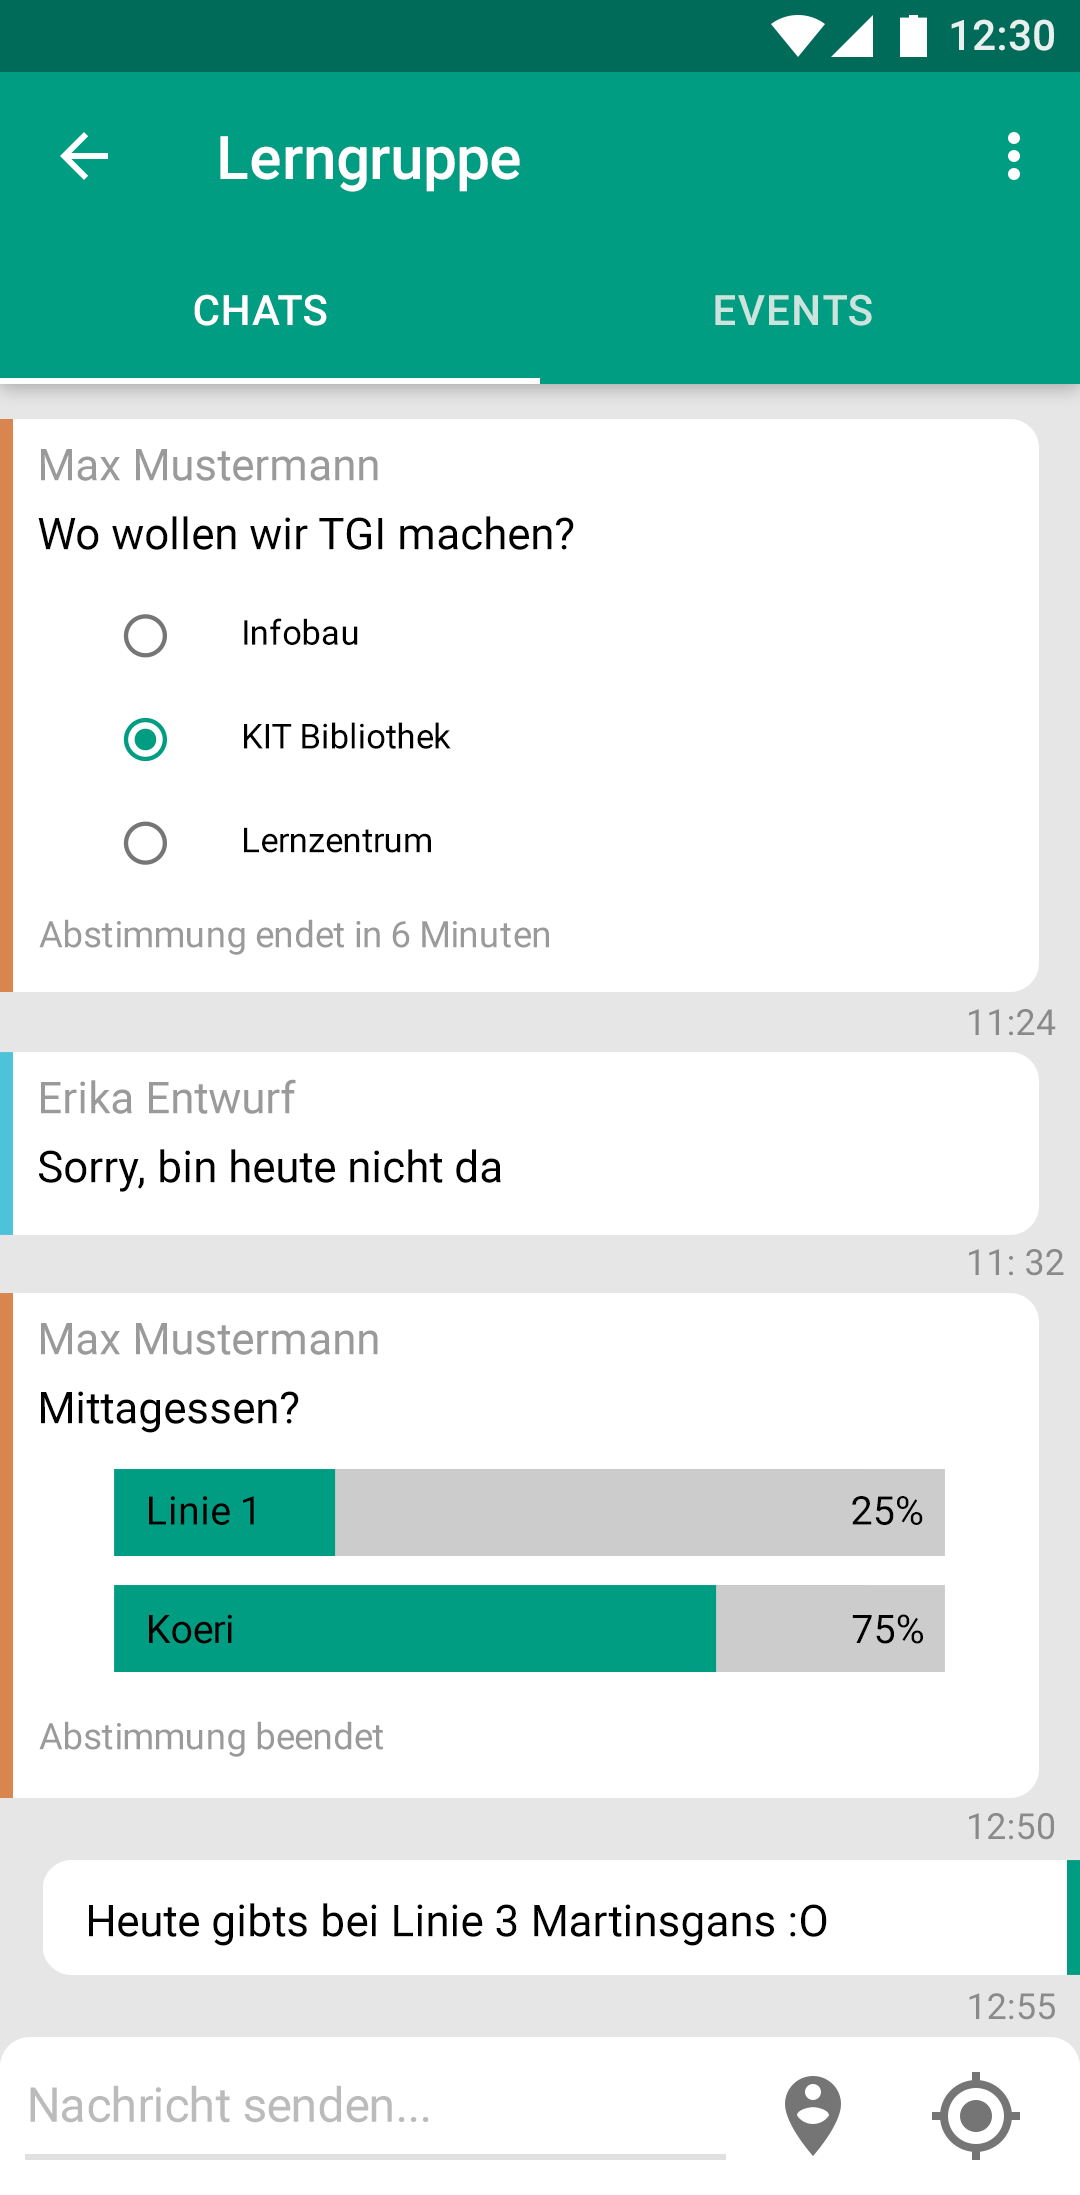
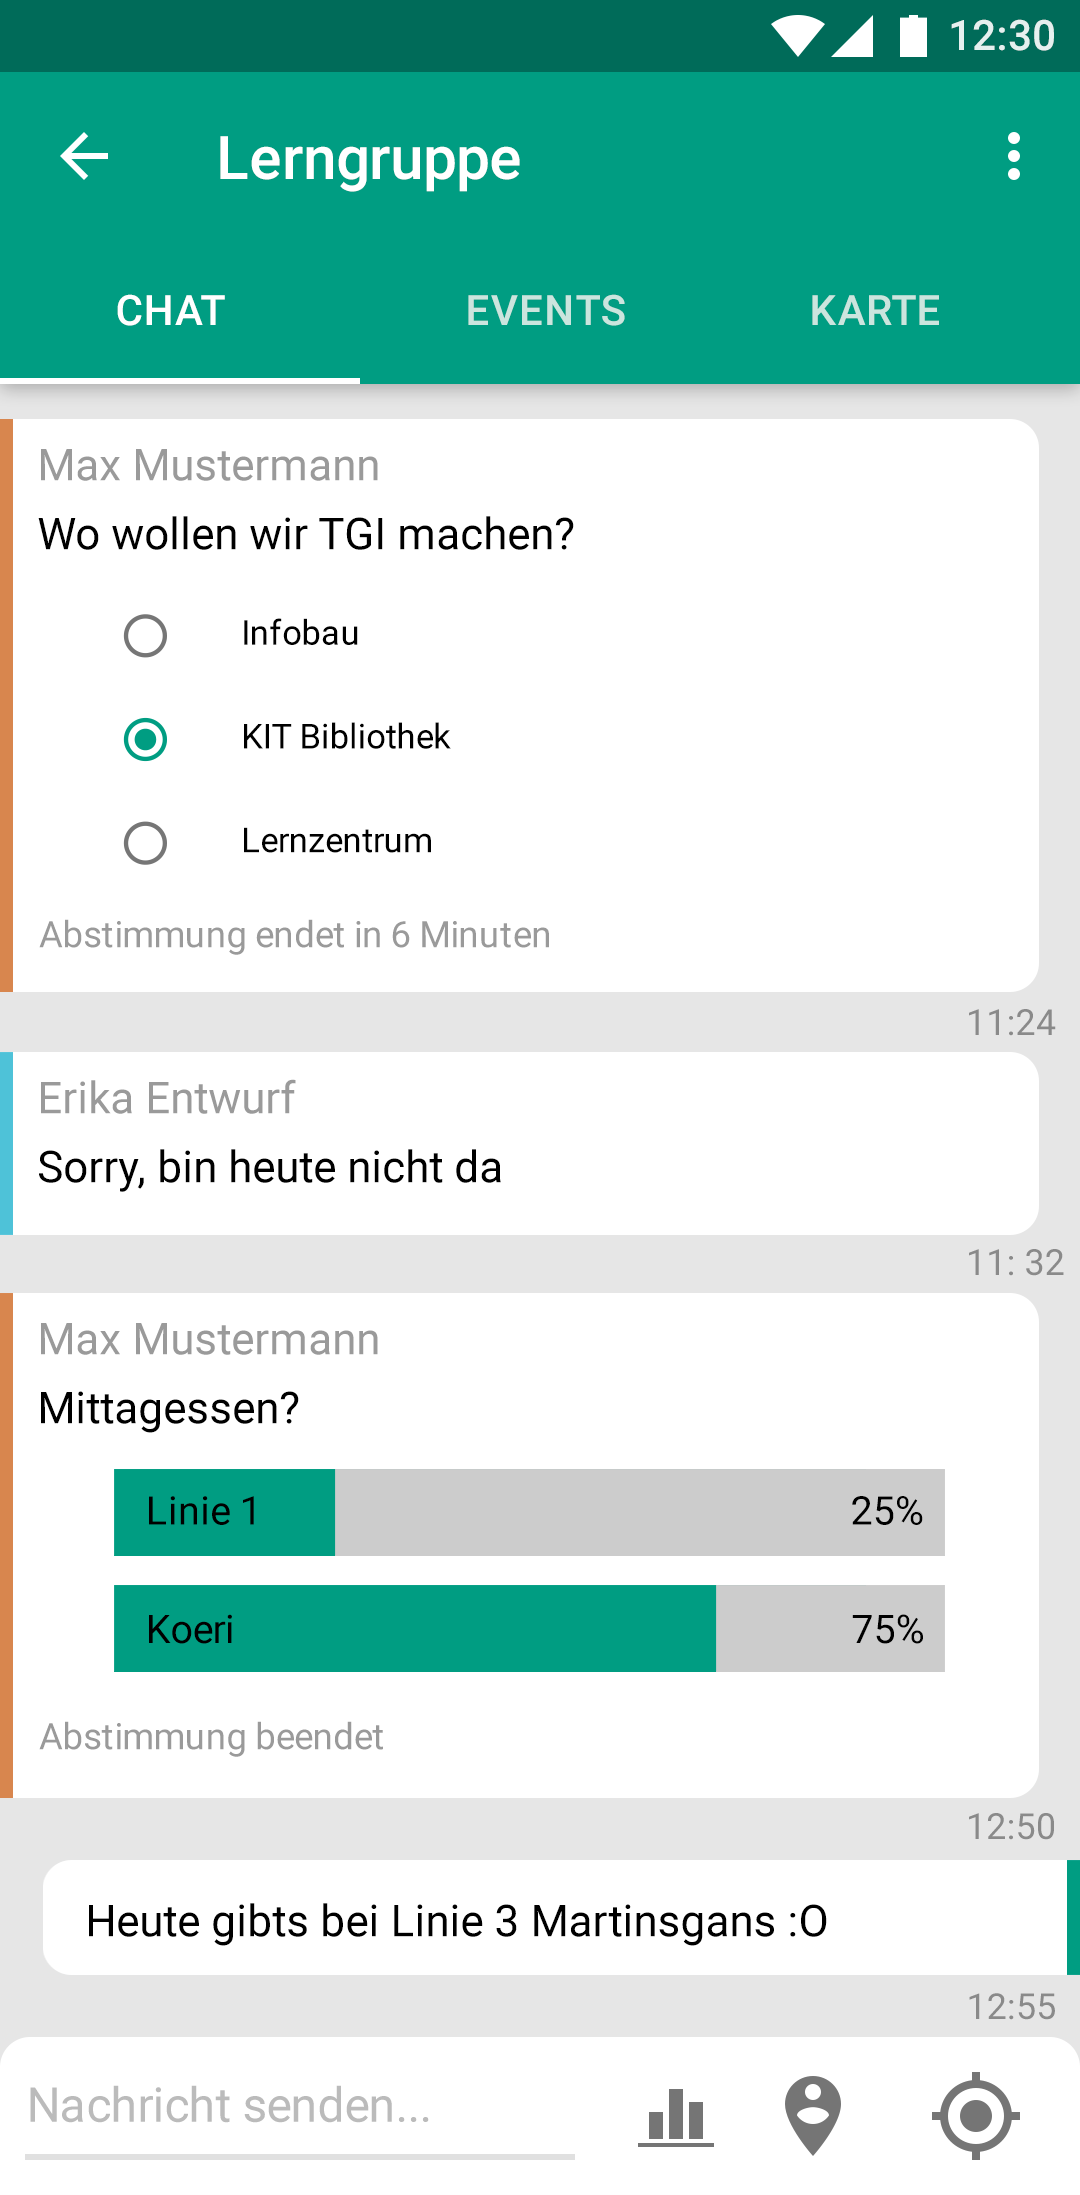
mockup updates, glossary

diff --git a/pflichtenheft/pflichtenheft.tex b/pflichtenheft/pflichtenheft.tex
@@ -127,7 +127,7 @@ nicht den Kontakt zu Fremden ermöglichen.
 \criteriumNot{Beidseitiges Einverständnis}{crt:consensual}{30}
 Die Anwendung ermöglicht nicht das Orten von Personen,
 die ihre Position nicht ausdrücklich zugänglich machen.
-Beispielsweise können Eltern nicht ihre Kinder ständig mit dieser App orten.
+Beispielsweise können Eltern mit dieser App nicht ständig ihre Kinder orten.
 
 \pagebreak
 %%%%%%%%%%%%%%
@@ -355,13 +355,12 @@ für andere Nutzer einsehbar sein sollen.
 
 \section{Seitenentwürfe}
 
-% made via https://gomockingbird.com/projects/mnf0cwf/4gXVnC
-
 \begin{figure}[hb]
 	\fbox{\includegraphics[height=80mm]{mockups/login.png}}
 	\caption{\label{fig:menu}
 		Login-Screen beim ersten Öffnen der App.
 		 \testlink{tst:grpcreate}.
+			%TODO: test case
 	}
 \end{figure}
 
@@ -370,31 +369,67 @@ für andere Nutzer einsehbar sein sollen.
 	\caption{\label{fig:groups}
 		Hier können Gruppen verwaltet und angesehen, sowie neue hinzugefügt werden.
 		\testlink{tst:grpcreate}.
+			%TODO: test case
 	}
 \end{figure}
 
 \begin{figure}[hb]
-		\fbox{\includegraphics[height=80mm]{mockups/event_map.png}}
+		\fbox{\includegraphics[height=80mm]{mockups/group_map.png}}
 		\caption{\label{fig:map}
-			Auf der Karte kann die Position der anderen Gruppenmitglieder eingesehen werden.
-			Orte mit mehreren Mitgliedern erscheinen größer.
+			Auf der Karte können die Positionen der anderen Gruppenmitglieder und bevorstehende 
+			Treffpunkte eingesehen werden. Nutzer erscheinen ggf. gruppiert.
 			\testlink{tst:grpcreate}.
+			%TODO: test case
+		}
+\end{figure}
+
+\begin{figure}[hb]
+		\fbox{\includegraphics[height=80mm]{mockups/group_events.png}}
+		\caption{\label{fig:map}
+			Innerhalb der Gruppe können Treffpunkte eingesehen und hinzugefügt werden.
+			\testlink{tst:grpcreate}.
+			%TODO: test case
+		}
+\end{figure}
+
+\begin{figure}[hb]
+		\fbox{\includegraphics[height=80mm]{mockups/group_members.png}}
+		\caption{\label{fig:map}
+			Gruppenmitglieder können eingesehen, entfernt und hinzugefügt werden.
+			Es gibt gruppenspezifische Einstellungsmöglichkeiten, sowie die Option,
+			die Gruppe zu verlassen.
+			\testlink{tst:grpcreate}.
+			%TODO: test case
+		}
+\end{figure}
+
+\begin{figure}[hb]
+		\fbox{\includegraphics[height=80mm]{mockups/home_groups_sidenav.png}}
+		\caption{\label{fig:map}
+			Vom Startbildschirm aus können diverse Einstellungen erreicht werden.
+			\testlink{tst:grpcreate}.
+			%TODO: test case
 		}
 \end{figure}
 
 \section{Glossar}
 
-\textbf{Besucher}:
-Eine Person, welche den Dienst nutzt.
-Kann eingeloggt sein oder nicht.
-
 \textbf{Nutzer}:
-Ein eingeloggter Besucher.
+Ein eingeloggter Verwendet der App.
 
 \textbf{Gruppe}:
 Mehrere Nutzer, welche untereinander Positionsdaten austauschen können.
 
 \textbf{Chat}:
 Möglichkeit für Mitglieder einer Gruppe, Textnachrichten auszutauschen.
+
+\textbf{Treffpunkt}:
+Ein festgelegter Ort und Zeitpunkt.
+
+\textbf{Karte}:
+Zeigt neben den kontextabhängigen Informationen der App auch Straßen, Gebäude und Terrain an.
+
+\textbf{GPS}:
+Global Positioning System, ein globales Satellitensystem zur Positionsbestimmung.
 
 \end{document}
